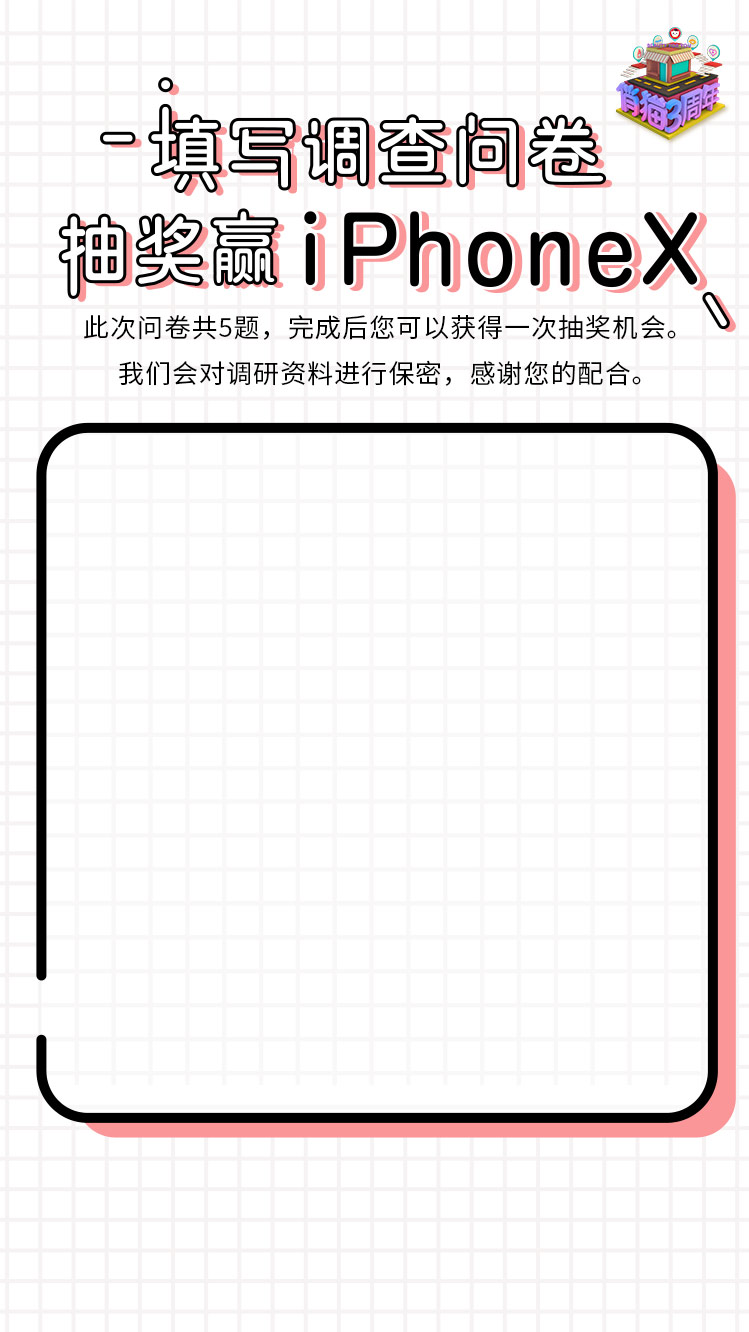
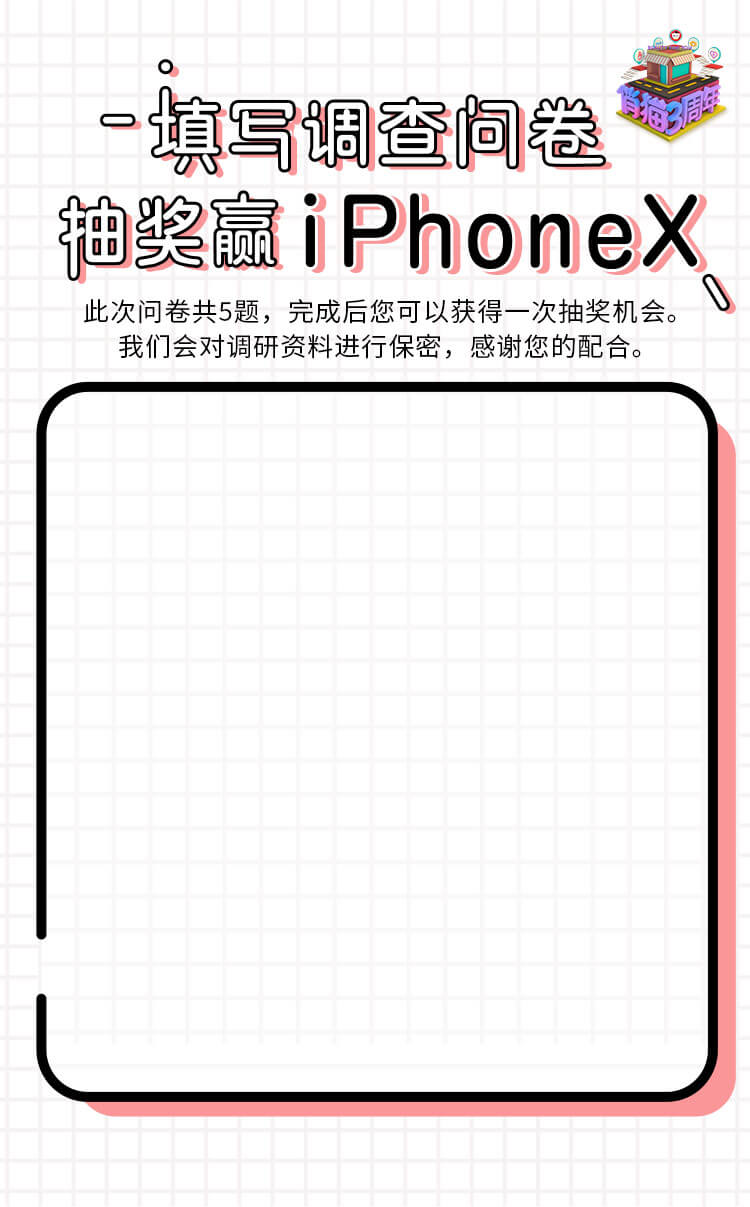
分享指引图更换

Changed region(s): [[0.0614, 0.0, 0.9826, 0.3372], [0.0307, 0.3372, 0.9826, 0.9503]]

diff --git a/src/page/topic/beauty_town/questionnaire.vue b/src/page/topic/beauty_town/questionnaire.vue
@@ -274,7 +274,7 @@ export default {
             .submit {
               cursor: pointer;
               margin: 0.8rem auto 0;
-              width: 16rem;
+              width: 19rem;
               img {
                 width: 100%;
               }
@@ -359,7 +359,7 @@ export default {
       .reback {
         margin-top: 2.2rem;
         margin-left: 0.5rem;
-        width: 8rem;
+        width: 10rem;
         cursor: pointer;
         img {
           width: 100%;

diff --git a/src/page/topic/beauty_town/receipt_info.vue b/src/page/topic/beauty_town/receipt_info.vue
@@ -31,7 +31,7 @@
     <!--分享指引-->
     <div class="share-guide" @click="hideShareBox" v-if="shareBoxShow">
       <div>
-        <img src="/static/topic/inviteNewUser_2017/guide2.png" alt="">
+        <img src="/static/topic/beauty_down/index/guide.png" alt="">
       </div>
     </div>
     <myAddress :showAddressPicker="showAddressPicker" :init="area" @save-address="saveAddress" @hide-picker="hidePicker"></myAddress>

diff --git a/src/page/topic/beauty_town/index.vue b/src/page/topic/beauty_town/index.vue
@@ -99,7 +99,7 @@
         <img src="/static/topic/beauty_down/index/web/tab_1.png" alt="" class="full tab-1" name="end">
         <!--分享指引-->
         <div class="share-guide" @click="hideShareBox" v-if="showShareBox">
-            <img src="/static/topic/inviteNewUser_2017/guide2.png" alt="">
+            <img src="/static/topic/beauty_down/index/guide.png" alt="">
         </div>
     </div>
 </template>

diff --git a/src/page/topic/beauty_town/luckdraw_3.vue b/src/page/topic/beauty_town/luckdraw_3.vue
@@ -102,7 +102,7 @@
     <!--分享指引-->
     <div class="share-guide" @click="hideShareBox" v-if="shareBoxShow">
       <div>
-        <img src="/static/topic/inviteNewUser_2017/guide2.png" alt="">
+        <img src="/static/topic/beauty_down/index/guide.png" alt="">
       </div>
     </div>
 
